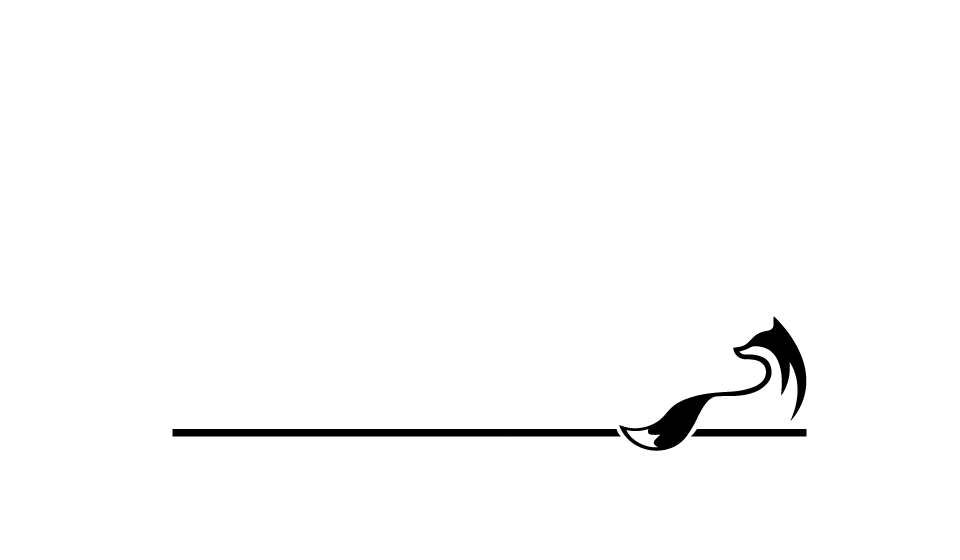
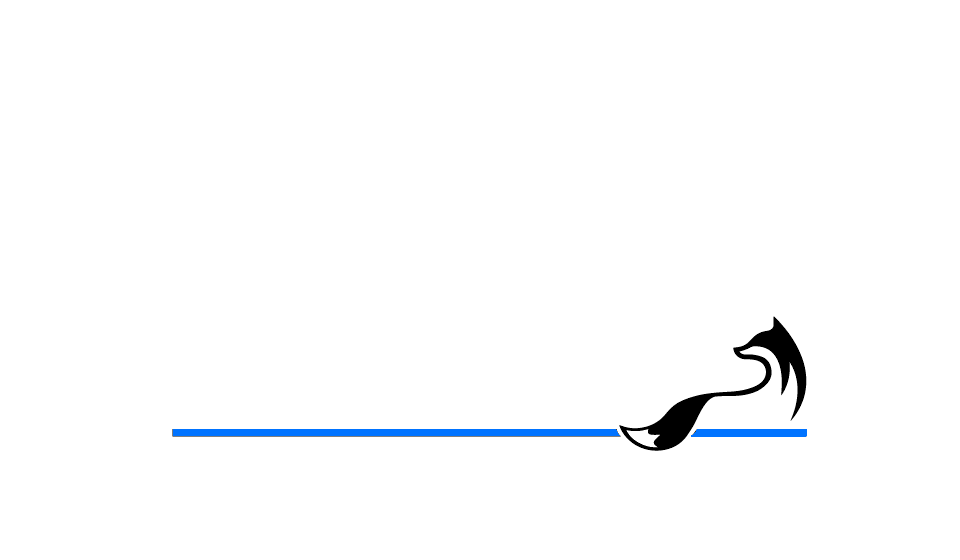
change image to new barnwell blue

Changed region(s): [[0.1875, 0.7589, 0.6562, 0.7893], [0.7188, 0.7589, 0.8438, 0.7893]]

diff --git a/index.html b/index.html
@@ -563,13 +563,13 @@
 		<div id="wrapper">
 			<header id="header">
 				<div class="content" style="border-top: none; border-bottom: none;">
-					<img src="images/barnwell-top (1).png" alt="Barnwell top decoration" />
+					<img src="images/barnwell-top.png" alt="Barnwell top decoration" />
 					<div class="inner" style="padding-top: 0.25rem; padding-bottom: 0.25rem; margin: 0;">
 						<h1 style="margin-bottom: 0.5rem;">Barnwell</h1>
 						<p style="margin-top: 0; margin-bottom: 0.5rem;"><b>Nassau County, FL</b></p>
 						<p style="margin-top: 0;"><b>Jumper Barn</b></p>
 					</div>
-					<img src="images/barnwell-bottom (1).png" alt="Barnwell bottom decoration" />
+					<img src="images/barnwell-bottom.png" alt="Barnwell bottom decoration" />
 				</div>
 				<nav>
 					<ul>
